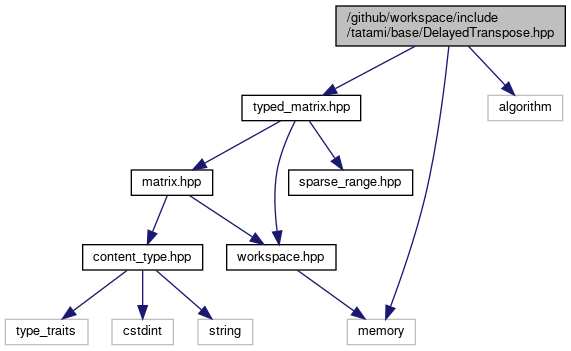
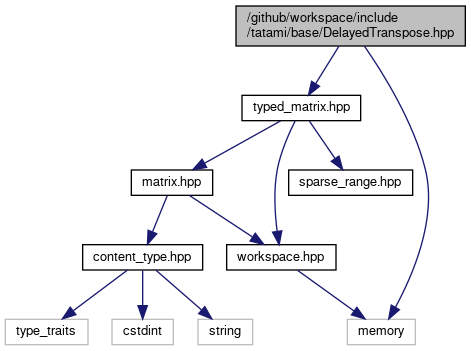
Deploying to gh-pages from @ LTLA/tatami@7d3052d615e4a1a943aadc665f6f98360302b2d3 🚀

diff --git a/docs/DelayedTranspose_8hpp_source.html b/docs/DelayedTranspose_8hpp_source.html
@@ -74,87 +74,88 @@ $(function() {
 <div class="line"><a name="l00002"></a><span class="lineno">    2</span>&#160;<span class="preprocessor">#define TATAMI_DELAYED_TRANSPOSE</span></div>
 <div class="line"><a name="l00003"></a><span class="lineno">    3</span>&#160; </div>
 <div class="line"><a name="l00004"></a><span class="lineno">    4</span>&#160;<span class="preprocessor">#include &quot;<a class="code" href="typed__matrix_8hpp.html">typed_matrix.hpp</a>&quot;</span></div>
-<div class="line"><a name="l00005"></a><span class="lineno">    5</span>&#160;<span class="preprocessor">#include &lt;algorithm&gt;</span></div>
-<div class="line"><a name="l00006"></a><span class="lineno">    6</span>&#160;<span class="preprocessor">#include &lt;memory&gt;</span></div>
-<div class="line"><a name="l00007"></a><span class="lineno">    7</span>&#160; </div>
-<div class="line"><a name="l00014"></a><span class="lineno">   14</span>&#160;<span class="keyword">namespace </span>tatami {</div>
-<div class="line"><a name="l00015"></a><span class="lineno">   15</span>&#160; </div>
-<div class="line"><a name="l00025"></a><span class="lineno">   25</span>&#160;<span class="keyword">template</span>&lt;<span class="keyword">typename</span> T, <span class="keyword">typename</span> IDX&gt;</div>
-<div class="line"><a name="l00026"></a><span class="lineno"><a class="line" href="classtatami_1_1DelayedTranspose.html">   26</a></span>&#160;<span class="keyword">class </span><a class="code" href="classtatami_1_1DelayedTranspose.html">DelayedTranspose</a> : <span class="keyword">public</span> <a class="code" href="classtatami_1_1typed__matrix.html">typed_matrix</a>&lt;T, IDX&gt; {</div>
-<div class="line"><a name="l00027"></a><span class="lineno">   27</span>&#160;<span class="keyword">public</span>:</div>
-<div class="line"><a name="l00031"></a><span class="lineno"><a class="line" href="classtatami_1_1DelayedTranspose.html#a639f0367cd1aff9ad5f3f163fb5f68ad">   31</a></span>&#160;    <a class="code" href="classtatami_1_1DelayedTranspose.html#a639f0367cd1aff9ad5f3f163fb5f68ad">DelayedTranspose</a>(std::shared_ptr&lt;<span class="keyword">const</span> <a class="code" href="classtatami_1_1typed__matrix.html">typed_matrix&lt;T, IDX&gt;</a> &gt; p) : mat(p) {}</div>
-<div class="line"><a name="l00032"></a><span class="lineno">   32</span>&#160; </div>
-<div class="line"><a name="l00033"></a><span class="lineno">   33</span>&#160;    ~<a class="code" href="classtatami_1_1DelayedTranspose.html">DelayedTranspose</a>() {}</div>
-<div class="line"><a name="l00034"></a><span class="lineno">   34</span>&#160;<span class="keyword">public</span>:</div>
-<div class="line"><a name="l00035"></a><span class="lineno"><a class="line" href="classtatami_1_1DelayedTranspose.html#a84c80075e46faf9441841e1c1cca7698">   35</a></span>&#160;    <span class="keyword">const</span> T* <a class="code" href="classtatami_1_1DelayedTranspose.html#a84c80075e46faf9441841e1c1cca7698">row</a>(<span class="keywordtype">size_t</span> r, T* buffer, <span class="keywordtype">size_t</span> start, <span class="keywordtype">size_t</span> end, <a class="code" href="classtatami_1_1workspace.html">workspace</a>* work=<span class="keyword">nullptr</span>)<span class="keyword"> const </span>{</div>
-<div class="line"><a name="l00036"></a><span class="lineno">   36</span>&#160;        <span class="keywordflow">return</span> mat-&gt;column(r, buffer, start, end, work);</div>
-<div class="line"><a name="l00037"></a><span class="lineno">   37</span>&#160;    }</div>
-<div class="line"><a name="l00038"></a><span class="lineno">   38</span>&#160; </div>
-<div class="line"><a name="l00039"></a><span class="lineno"><a class="line" href="classtatami_1_1DelayedTranspose.html#a6ff0718cb0c642781e41995d672b3f99">   39</a></span>&#160;    <span class="keyword">const</span> T* <a class="code" href="classtatami_1_1DelayedTranspose.html#a6ff0718cb0c642781e41995d672b3f99">column</a>(<span class="keywordtype">size_t</span> c, T* buffer, <span class="keywordtype">size_t</span> start, <span class="keywordtype">size_t</span> end, <a class="code" href="classtatami_1_1workspace.html">workspace</a>* work=<span class="keyword">nullptr</span>)<span class="keyword"> const </span>{</div>
-<div class="line"><a name="l00040"></a><span class="lineno">   40</span>&#160;        <span class="keywordflow">return</span> mat-&gt;row(c, buffer, start, end, work);</div>
-<div class="line"><a name="l00041"></a><span class="lineno">   41</span>&#160;    }</div>
-<div class="line"><a name="l00042"></a><span class="lineno">   42</span>&#160; </div>
-<div class="line"><a name="l00043"></a><span class="lineno">   43</span>&#160;    <span class="keyword">using</span> <a class="code" href="classtatami_1_1typed__matrix.html">typed_matrix&lt;T, IDX&gt;::column</a>;</div>
-<div class="line"><a name="l00044"></a><span class="lineno">   44</span>&#160; </div>
-<div class="line"><a name="l00045"></a><span class="lineno">   45</span>&#160;    <span class="keyword">using</span> <a class="code" href="classtatami_1_1typed__matrix.html">typed_matrix&lt;T, IDX&gt;::row</a>;</div>
-<div class="line"><a name="l00046"></a><span class="lineno">   46</span>&#160; </div>
-<div class="line"><a name="l00047"></a><span class="lineno">   47</span>&#160;<span class="keyword">public</span>:</div>
-<div class="line"><a name="l00048"></a><span class="lineno"><a class="line" href="classtatami_1_1DelayedTranspose.html#acc9425ada0dd1ca5fcfb6d5c7ef437de">   48</a></span>&#160;    <a class="code" href="structtatami_1_1sparse__range.html">sparse_range&lt;T, IDX&gt;</a> <a class="code" href="classtatami_1_1DelayedTranspose.html#acc9425ada0dd1ca5fcfb6d5c7ef437de">sparse_row</a>(<span class="keywordtype">size_t</span> r, T* out_values, IDX* out_indices, <span class="keywordtype">size_t</span> start, <span class="keywordtype">size_t</span> end, <a class="code" href="classtatami_1_1workspace.html">workspace</a>* work=<span class="keyword">nullptr</span>, <span class="keywordtype">bool</span> sorted=<span class="keyword">true</span>)<span class="keyword"> const </span>{</div>
-<div class="line"><a name="l00049"></a><span class="lineno">   49</span>&#160;        <span class="keywordflow">return</span> mat-&gt;sparse_column(r, out_values, out_indices, start, end, work, sorted);</div>
-<div class="line"><a name="l00050"></a><span class="lineno">   50</span>&#160;    }</div>
-<div class="line"><a name="l00051"></a><span class="lineno">   51</span>&#160; </div>
-<div class="line"><a name="l00052"></a><span class="lineno"><a class="line" href="classtatami_1_1DelayedTranspose.html#a779560415e211da5097e0797b8c9e1e6">   52</a></span>&#160;    <a class="code" href="structtatami_1_1sparse__range.html">sparse_range&lt;T, IDX&gt;</a> <a class="code" href="classtatami_1_1DelayedTranspose.html#a779560415e211da5097e0797b8c9e1e6">sparse_column</a>(<span class="keywordtype">size_t</span> c, T* out_values, IDX* out_indices, <span class="keywordtype">size_t</span> start, <span class="keywordtype">size_t</span> end, <a class="code" href="classtatami_1_1workspace.html">workspace</a>* work=<span class="keyword">nullptr</span>, <span class="keywordtype">bool</span> sorted=<span class="keyword">true</span>)<span class="keyword"> const </span>{</div>
-<div class="line"><a name="l00053"></a><span class="lineno">   53</span>&#160;        <span class="keywordflow">return</span> mat-&gt;sparse_row(c, out_values, out_indices, start, end, work, sorted);</div>
-<div class="line"><a name="l00054"></a><span class="lineno">   54</span>&#160;    }</div>
-<div class="line"><a name="l00055"></a><span class="lineno">   55</span>&#160; </div>
-<div class="line"><a name="l00056"></a><span class="lineno">   56</span>&#160;    <span class="keyword">using</span> <a class="code" href="classtatami_1_1typed__matrix.html">typed_matrix&lt;T, IDX&gt;::sparse_column</a>;</div>
-<div class="line"><a name="l00057"></a><span class="lineno">   57</span>&#160; </div>
-<div class="line"><a name="l00058"></a><span class="lineno">   58</span>&#160;    <span class="keyword">using</span> <a class="code" href="classtatami_1_1typed__matrix.html">typed_matrix&lt;T, IDX&gt;::sparse_row</a>;</div>
-<div class="line"><a name="l00059"></a><span class="lineno">   59</span>&#160; </div>
-<div class="line"><a name="l00060"></a><span class="lineno">   60</span>&#160;<span class="keyword">public</span>:</div>
-<div class="line"><a name="l00064"></a><span class="lineno"><a class="line" href="classtatami_1_1DelayedTranspose.html#afb9f6fb4d51c4741d1c7ae60dd068a26">   64</a></span>&#160;    <span class="keywordtype">size_t</span> <a class="code" href="classtatami_1_1DelayedTranspose.html#afb9f6fb4d51c4741d1c7ae60dd068a26">nrow</a>()<span class="keyword"> const </span>{</div>
-<div class="line"><a name="l00065"></a><span class="lineno">   65</span>&#160;        <span class="keywordflow">return</span> mat-&gt;ncol();</div>
-<div class="line"><a name="l00066"></a><span class="lineno">   66</span>&#160;    }</div>
-<div class="line"><a name="l00067"></a><span class="lineno">   67</span>&#160;    </div>
-<div class="line"><a name="l00071"></a><span class="lineno"><a class="line" href="classtatami_1_1DelayedTranspose.html#a29552de098bd2374ae99ef0e223d8973">   71</a></span>&#160;    <span class="keywordtype">size_t</span> <a class="code" href="classtatami_1_1DelayedTranspose.html#a29552de098bd2374ae99ef0e223d8973">ncol</a>()<span class="keyword"> const </span>{</div>
-<div class="line"><a name="l00072"></a><span class="lineno">   72</span>&#160;        <span class="keywordflow">return</span> mat-&gt;nrow();</div>
-<div class="line"><a name="l00073"></a><span class="lineno">   73</span>&#160;    }</div>
-<div class="line"><a name="l00074"></a><span class="lineno">   74</span>&#160; </div>
-<div class="line"><a name="l00078"></a><span class="lineno"><a class="line" href="classtatami_1_1DelayedTranspose.html#a34bd41a71cb68fb98697076a4119f33f">   78</a></span>&#160;    std::shared_ptr&lt;workspace&gt; <a class="code" href="classtatami_1_1DelayedTranspose.html#a34bd41a71cb68fb98697076a4119f33f">new_workspace</a>(<span class="keywordtype">bool</span> <a class="code" href="classtatami_1_1DelayedTranspose.html#a84c80075e46faf9441841e1c1cca7698">row</a>)<span class="keyword"> const </span>{</div>
-<div class="line"><a name="l00079"></a><span class="lineno">   79</span>&#160;        <span class="keywordflow">return</span> mat-&gt;new_workspace(!<a class="code" href="classtatami_1_1DelayedTranspose.html#a84c80075e46faf9441841e1c1cca7698">row</a>);</div>
-<div class="line"><a name="l00080"></a><span class="lineno">   80</span>&#160;    }</div>
-<div class="line"><a name="l00081"></a><span class="lineno">   81</span>&#160; </div>
-<div class="line"><a name="l00085"></a><span class="lineno"><a class="line" href="classtatami_1_1DelayedTranspose.html#ad22bbe789d72c8dcc1b2d6ff7e4881c7">   85</a></span>&#160;    <span class="keywordtype">bool</span> <a class="code" href="classtatami_1_1DelayedTranspose.html#ad22bbe789d72c8dcc1b2d6ff7e4881c7">sparse</a>()<span class="keyword"> const </span>{</div>
-<div class="line"><a name="l00086"></a><span class="lineno">   86</span>&#160;        <span class="keywordflow">return</span> mat-&gt;sparse();</div>
-<div class="line"><a name="l00087"></a><span class="lineno">   87</span>&#160;    }</div>
-<div class="line"><a name="l00088"></a><span class="lineno">   88</span>&#160; </div>
-<div class="line"><a name="l00092"></a><span class="lineno"><a class="line" href="classtatami_1_1DelayedTranspose.html#a13a4810d7d36b07df67b4d0e758d200a">   92</a></span>&#160;    <span class="keywordtype">bool</span> <a class="code" href="classtatami_1_1DelayedTranspose.html#a13a4810d7d36b07df67b4d0e758d200a">prefer_rows</a>()<span class="keyword"> const </span>{</div>
-<div class="line"><a name="l00093"></a><span class="lineno">   93</span>&#160;        <span class="keywordflow">return</span> mat-&gt;prefer_rows();</div>
-<div class="line"><a name="l00094"></a><span class="lineno">   94</span>&#160;    }</div>
-<div class="line"><a name="l00095"></a><span class="lineno">   95</span>&#160;};</div>
-<div class="line"><a name="l00096"></a><span class="lineno">   96</span>&#160; </div>
-<div class="line"><a name="l00106"></a><span class="lineno">  106</span>&#160;<span class="keyword">template</span>&lt;<span class="keywordtype">int</span> MARGIN, <span class="keyword">class</span> MAT, <span class="keyword">class</span> V&gt;</div>
-<div class="line"><a name="l00107"></a><span class="lineno"><a class="line" href="DelayedTranspose_8hpp.html#ac776ea0f9828f7f6f389aaa41c14649b">  107</a></span>&#160;std::shared_ptr&lt;MAT&gt; <a class="code" href="DelayedTranspose_8hpp.html#ac776ea0f9828f7f6f389aaa41c14649b">make_DelayedTranspose</a>(std::shared_ptr&lt;MAT&gt; p) {</div>
-<div class="line"><a name="l00108"></a><span class="lineno">  108</span>&#160;    <span class="keywordflow">return</span> std::shared_ptr&lt;MAT&gt;(</div>
-<div class="line"><a name="l00109"></a><span class="lineno">  109</span>&#160;        <span class="keyword">new</span> <a class="code" href="classtatami_1_1DelayedTranspose.html">DelayedTranspose&lt;typename MAT::value, typename MAT::index&gt;</a>(p)</div>
-<div class="line"><a name="l00110"></a><span class="lineno">  110</span>&#160;    );</div>
-<div class="line"><a name="l00111"></a><span class="lineno">  111</span>&#160;}</div>
-<div class="line"><a name="l00112"></a><span class="lineno">  112</span>&#160; </div>
-<div class="line"><a name="l00113"></a><span class="lineno">  113</span>&#160;}</div>
-<div class="line"><a name="l00114"></a><span class="lineno">  114</span>&#160; </div>
-<div class="line"><a name="l00115"></a><span class="lineno">  115</span>&#160;<span class="preprocessor">#endif</span></div>
-<div class="ttc" id="aDelayedTranspose_8hpp_html_ac776ea0f9828f7f6f389aaa41c14649b"><div class="ttname"><a href="DelayedTranspose_8hpp.html#ac776ea0f9828f7f6f389aaa41c14649b">tatami::make_DelayedTranspose</a></div><div class="ttdeci">std::shared_ptr&lt; MAT &gt; make_DelayedTranspose(std::shared_ptr&lt; MAT &gt; p)</div><div class="ttdef"><b>Definition:</b> DelayedTranspose.hpp:107</div></div>
-<div class="ttc" id="aclasstatami_1_1DelayedTranspose_html"><div class="ttname"><a href="classtatami_1_1DelayedTranspose.html">tatami::DelayedTranspose</a></div><div class="ttdoc">Delayed transposition of a matrix.</div><div class="ttdef"><b>Definition:</b> DelayedTranspose.hpp:26</div></div>
-<div class="ttc" id="aclasstatami_1_1DelayedTranspose_html_a13a4810d7d36b07df67b4d0e758d200a"><div class="ttname"><a href="classtatami_1_1DelayedTranspose.html#a13a4810d7d36b07df67b4d0e758d200a">tatami::DelayedTranspose::prefer_rows</a></div><div class="ttdeci">bool prefer_rows() const</div><div class="ttdef"><b>Definition:</b> DelayedTranspose.hpp:92</div></div>
-<div class="ttc" id="aclasstatami_1_1DelayedTranspose_html_a29552de098bd2374ae99ef0e223d8973"><div class="ttname"><a href="classtatami_1_1DelayedTranspose.html#a29552de098bd2374ae99ef0e223d8973">tatami::DelayedTranspose::ncol</a></div><div class="ttdeci">size_t ncol() const</div><div class="ttdef"><b>Definition:</b> DelayedTranspose.hpp:71</div></div>
-<div class="ttc" id="aclasstatami_1_1DelayedTranspose_html_a34bd41a71cb68fb98697076a4119f33f"><div class="ttname"><a href="classtatami_1_1DelayedTranspose.html#a34bd41a71cb68fb98697076a4119f33f">tatami::DelayedTranspose::new_workspace</a></div><div class="ttdeci">std::shared_ptr&lt; workspace &gt; new_workspace(bool row) const</div><div class="ttdef"><b>Definition:</b> DelayedTranspose.hpp:78</div></div>
-<div class="ttc" id="aclasstatami_1_1DelayedTranspose_html_a639f0367cd1aff9ad5f3f163fb5f68ad"><div class="ttname"><a href="classtatami_1_1DelayedTranspose.html#a639f0367cd1aff9ad5f3f163fb5f68ad">tatami::DelayedTranspose::DelayedTranspose</a></div><div class="ttdeci">DelayedTranspose(std::shared_ptr&lt; const typed_matrix&lt; T, IDX &gt; &gt; p)</div><div class="ttdef"><b>Definition:</b> DelayedTranspose.hpp:31</div></div>
-<div class="ttc" id="aclasstatami_1_1DelayedTranspose_html_a6ff0718cb0c642781e41995d672b3f99"><div class="ttname"><a href="classtatami_1_1DelayedTranspose.html#a6ff0718cb0c642781e41995d672b3f99">tatami::DelayedTranspose::column</a></div><div class="ttdeci">const T * column(size_t c, T *buffer, size_t start, size_t end, workspace *work=nullptr) const</div><div class="ttdef"><b>Definition:</b> DelayedTranspose.hpp:39</div></div>
-<div class="ttc" id="aclasstatami_1_1DelayedTranspose_html_a779560415e211da5097e0797b8c9e1e6"><div class="ttname"><a href="classtatami_1_1DelayedTranspose.html#a779560415e211da5097e0797b8c9e1e6">tatami::DelayedTranspose::sparse_column</a></div><div class="ttdeci">sparse_range&lt; T, IDX &gt; sparse_column(size_t c, T *out_values, IDX *out_indices, size_t start, size_t end, workspace *work=nullptr, bool sorted=true) const</div><div class="ttdef"><b>Definition:</b> DelayedTranspose.hpp:52</div></div>
-<div class="ttc" id="aclasstatami_1_1DelayedTranspose_html_a84c80075e46faf9441841e1c1cca7698"><div class="ttname"><a href="classtatami_1_1DelayedTranspose.html#a84c80075e46faf9441841e1c1cca7698">tatami::DelayedTranspose::row</a></div><div class="ttdeci">const T * row(size_t r, T *buffer, size_t start, size_t end, workspace *work=nullptr) const</div><div class="ttdef"><b>Definition:</b> DelayedTranspose.hpp:35</div></div>
-<div class="ttc" id="aclasstatami_1_1DelayedTranspose_html_acc9425ada0dd1ca5fcfb6d5c7ef437de"><div class="ttname"><a href="classtatami_1_1DelayedTranspose.html#acc9425ada0dd1ca5fcfb6d5c7ef437de">tatami::DelayedTranspose::sparse_row</a></div><div class="ttdeci">sparse_range&lt; T, IDX &gt; sparse_row(size_t r, T *out_values, IDX *out_indices, size_t start, size_t end, workspace *work=nullptr, bool sorted=true) const</div><div class="ttdef"><b>Definition:</b> DelayedTranspose.hpp:48</div></div>
-<div class="ttc" id="aclasstatami_1_1DelayedTranspose_html_ad22bbe789d72c8dcc1b2d6ff7e4881c7"><div class="ttname"><a href="classtatami_1_1DelayedTranspose.html#ad22bbe789d72c8dcc1b2d6ff7e4881c7">tatami::DelayedTranspose::sparse</a></div><div class="ttdeci">bool sparse() const</div><div class="ttdef"><b>Definition:</b> DelayedTranspose.hpp:85</div></div>
-<div class="ttc" id="aclasstatami_1_1DelayedTranspose_html_afb9f6fb4d51c4741d1c7ae60dd068a26"><div class="ttname"><a href="classtatami_1_1DelayedTranspose.html#afb9f6fb4d51c4741d1c7ae60dd068a26">tatami::DelayedTranspose::nrow</a></div><div class="ttdeci">size_t nrow() const</div><div class="ttdef"><b>Definition:</b> DelayedTranspose.hpp:64</div></div>
+<div class="line"><a name="l00005"></a><span class="lineno">    5</span>&#160;<span class="preprocessor">#include &lt;memory&gt;</span></div>
+<div class="line"><a name="l00006"></a><span class="lineno">    6</span>&#160; </div>
+<div class="line"><a name="l00013"></a><span class="lineno">   13</span>&#160;<span class="keyword">namespace </span>tatami {</div>
+<div class="line"><a name="l00014"></a><span class="lineno">   14</span>&#160; </div>
+<div class="line"><a name="l00024"></a><span class="lineno">   24</span>&#160;<span class="keyword">template</span>&lt;<span class="keyword">typename</span> T, <span class="keyword">typename</span> IDX&gt;</div>
+<div class="line"><a name="l00025"></a><span class="lineno"><a class="line" href="classtatami_1_1DelayedTranspose.html">   25</a></span>&#160;<span class="keyword">class </span><a class="code" href="classtatami_1_1DelayedTranspose.html">DelayedTranspose</a> : <span class="keyword">public</span> <a class="code" href="classtatami_1_1typed__matrix.html">typed_matrix</a>&lt;T, IDX&gt; {</div>
+<div class="line"><a name="l00026"></a><span class="lineno">   26</span>&#160;<span class="keyword">public</span>:</div>
+<div class="line"><a name="l00030"></a><span class="lineno"><a class="line" href="classtatami_1_1DelayedTranspose.html#a639f0367cd1aff9ad5f3f163fb5f68ad">   30</a></span>&#160;    <a class="code" href="classtatami_1_1DelayedTranspose.html#a639f0367cd1aff9ad5f3f163fb5f68ad">DelayedTranspose</a>(std::shared_ptr&lt;<span class="keyword">const</span> <a class="code" href="classtatami_1_1typed__matrix.html">typed_matrix&lt;T, IDX&gt;</a> &gt; p) : mat(std::move(p)) {}</div>
+<div class="line"><a name="l00031"></a><span class="lineno">   31</span>&#160; </div>
+<div class="line"><a name="l00032"></a><span class="lineno">   32</span>&#160;    ~<a class="code" href="classtatami_1_1DelayedTranspose.html">DelayedTranspose</a>() {}</div>
+<div class="line"><a name="l00033"></a><span class="lineno">   33</span>&#160;<span class="keyword">public</span>:</div>
+<div class="line"><a name="l00034"></a><span class="lineno"><a class="line" href="classtatami_1_1DelayedTranspose.html#a84c80075e46faf9441841e1c1cca7698">   34</a></span>&#160;    <span class="keyword">const</span> T* <a class="code" href="classtatami_1_1DelayedTranspose.html#a84c80075e46faf9441841e1c1cca7698">row</a>(<span class="keywordtype">size_t</span> r, T* buffer, <span class="keywordtype">size_t</span> start, <span class="keywordtype">size_t</span> end, <a class="code" href="classtatami_1_1workspace.html">workspace</a>* work=<span class="keyword">nullptr</span>)<span class="keyword"> const </span>{</div>
+<div class="line"><a name="l00035"></a><span class="lineno">   35</span>&#160;        <span class="keywordflow">return</span> mat-&gt;column(r, buffer, start, end, work);</div>
+<div class="line"><a name="l00036"></a><span class="lineno">   36</span>&#160;    }</div>
+<div class="line"><a name="l00037"></a><span class="lineno">   37</span>&#160; </div>
+<div class="line"><a name="l00038"></a><span class="lineno"><a class="line" href="classtatami_1_1DelayedTranspose.html#a6ff0718cb0c642781e41995d672b3f99">   38</a></span>&#160;    <span class="keyword">const</span> T* <a class="code" href="classtatami_1_1DelayedTranspose.html#a6ff0718cb0c642781e41995d672b3f99">column</a>(<span class="keywordtype">size_t</span> c, T* buffer, <span class="keywordtype">size_t</span> start, <span class="keywordtype">size_t</span> end, <a class="code" href="classtatami_1_1workspace.html">workspace</a>* work=<span class="keyword">nullptr</span>)<span class="keyword"> const </span>{</div>
+<div class="line"><a name="l00039"></a><span class="lineno">   39</span>&#160;        <span class="keywordflow">return</span> mat-&gt;row(c, buffer, start, end, work);</div>
+<div class="line"><a name="l00040"></a><span class="lineno">   40</span>&#160;    }</div>
+<div class="line"><a name="l00041"></a><span class="lineno">   41</span>&#160; </div>
+<div class="line"><a name="l00042"></a><span class="lineno">   42</span>&#160;    <span class="keyword">using</span> <a class="code" href="classtatami_1_1typed__matrix.html">typed_matrix&lt;T, IDX&gt;::column</a>;</div>
+<div class="line"><a name="l00043"></a><span class="lineno">   43</span>&#160; </div>
+<div class="line"><a name="l00044"></a><span class="lineno">   44</span>&#160;    <span class="keyword">using</span> <a class="code" href="classtatami_1_1typed__matrix.html">typed_matrix&lt;T, IDX&gt;::row</a>;</div>
+<div class="line"><a name="l00045"></a><span class="lineno">   45</span>&#160; </div>
+<div class="line"><a name="l00046"></a><span class="lineno">   46</span>&#160;<span class="keyword">public</span>:</div>
+<div class="line"><a name="l00047"></a><span class="lineno"><a class="line" href="classtatami_1_1DelayedTranspose.html#acc9425ada0dd1ca5fcfb6d5c7ef437de">   47</a></span>&#160;    <a class="code" href="structtatami_1_1sparse__range.html">sparse_range&lt;T, IDX&gt;</a> <a class="code" href="classtatami_1_1DelayedTranspose.html#acc9425ada0dd1ca5fcfb6d5c7ef437de">sparse_row</a>(<span class="keywordtype">size_t</span> r, T* out_values, IDX* out_indices, <span class="keywordtype">size_t</span> start, <span class="keywordtype">size_t</span> end, <a class="code" href="classtatami_1_1workspace.html">workspace</a>* work=<span class="keyword">nullptr</span>, <span class="keywordtype">bool</span> sorted=<span class="keyword">true</span>)<span class="keyword"> const </span>{</div>
+<div class="line"><a name="l00048"></a><span class="lineno">   48</span>&#160;        <span class="keywordflow">return</span> mat-&gt;sparse_column(r, out_values, out_indices, start, end, work, sorted);</div>
+<div class="line"><a name="l00049"></a><span class="lineno">   49</span>&#160;    }</div>
+<div class="line"><a name="l00050"></a><span class="lineno">   50</span>&#160; </div>
+<div class="line"><a name="l00051"></a><span class="lineno"><a class="line" href="classtatami_1_1DelayedTranspose.html#a779560415e211da5097e0797b8c9e1e6">   51</a></span>&#160;    <a class="code" href="structtatami_1_1sparse__range.html">sparse_range&lt;T, IDX&gt;</a> <a class="code" href="classtatami_1_1DelayedTranspose.html#a779560415e211da5097e0797b8c9e1e6">sparse_column</a>(<span class="keywordtype">size_t</span> c, T* out_values, IDX* out_indices, <span class="keywordtype">size_t</span> start, <span class="keywordtype">size_t</span> end, <a class="code" href="classtatami_1_1workspace.html">workspace</a>* work=<span class="keyword">nullptr</span>, <span class="keywordtype">bool</span> sorted=<span class="keyword">true</span>)<span class="keyword"> const </span>{</div>
+<div class="line"><a name="l00052"></a><span class="lineno">   52</span>&#160;        <span class="keywordflow">return</span> mat-&gt;sparse_row(c, out_values, out_indices, start, end, work, sorted);</div>
+<div class="line"><a name="l00053"></a><span class="lineno">   53</span>&#160;    }</div>
+<div class="line"><a name="l00054"></a><span class="lineno">   54</span>&#160; </div>
+<div class="line"><a name="l00055"></a><span class="lineno">   55</span>&#160;    <span class="keyword">using</span> <a class="code" href="classtatami_1_1typed__matrix.html">typed_matrix&lt;T, IDX&gt;::sparse_column</a>;</div>
+<div class="line"><a name="l00056"></a><span class="lineno">   56</span>&#160; </div>
+<div class="line"><a name="l00057"></a><span class="lineno">   57</span>&#160;    <span class="keyword">using</span> <a class="code" href="classtatami_1_1typed__matrix.html">typed_matrix&lt;T, IDX&gt;::sparse_row</a>;</div>
+<div class="line"><a name="l00058"></a><span class="lineno">   58</span>&#160; </div>
+<div class="line"><a name="l00059"></a><span class="lineno">   59</span>&#160;<span class="keyword">public</span>:</div>
+<div class="line"><a name="l00063"></a><span class="lineno"><a class="line" href="classtatami_1_1DelayedTranspose.html#afb9f6fb4d51c4741d1c7ae60dd068a26">   63</a></span>&#160;    <span class="keywordtype">size_t</span> <a class="code" href="classtatami_1_1DelayedTranspose.html#afb9f6fb4d51c4741d1c7ae60dd068a26">nrow</a>()<span class="keyword"> const </span>{</div>
+<div class="line"><a name="l00064"></a><span class="lineno">   64</span>&#160;        <span class="keywordflow">return</span> mat-&gt;ncol();</div>
+<div class="line"><a name="l00065"></a><span class="lineno">   65</span>&#160;    }</div>
+<div class="line"><a name="l00066"></a><span class="lineno">   66</span>&#160;    </div>
+<div class="line"><a name="l00070"></a><span class="lineno"><a class="line" href="classtatami_1_1DelayedTranspose.html#a29552de098bd2374ae99ef0e223d8973">   70</a></span>&#160;    <span class="keywordtype">size_t</span> <a class="code" href="classtatami_1_1DelayedTranspose.html#a29552de098bd2374ae99ef0e223d8973">ncol</a>()<span class="keyword"> const </span>{</div>
+<div class="line"><a name="l00071"></a><span class="lineno">   71</span>&#160;        <span class="keywordflow">return</span> mat-&gt;nrow();</div>
+<div class="line"><a name="l00072"></a><span class="lineno">   72</span>&#160;    }</div>
+<div class="line"><a name="l00073"></a><span class="lineno">   73</span>&#160; </div>
+<div class="line"><a name="l00077"></a><span class="lineno"><a class="line" href="classtatami_1_1DelayedTranspose.html#a34bd41a71cb68fb98697076a4119f33f">   77</a></span>&#160;    std::shared_ptr&lt;workspace&gt; <a class="code" href="classtatami_1_1DelayedTranspose.html#a34bd41a71cb68fb98697076a4119f33f">new_workspace</a>(<span class="keywordtype">bool</span> <a class="code" href="classtatami_1_1DelayedTranspose.html#a84c80075e46faf9441841e1c1cca7698">row</a>)<span class="keyword"> const </span>{</div>
+<div class="line"><a name="l00078"></a><span class="lineno">   78</span>&#160;        <span class="keywordflow">return</span> mat-&gt;new_workspace(!<a class="code" href="classtatami_1_1DelayedTranspose.html#a84c80075e46faf9441841e1c1cca7698">row</a>);</div>
+<div class="line"><a name="l00079"></a><span class="lineno">   79</span>&#160;    }</div>
+<div class="line"><a name="l00080"></a><span class="lineno">   80</span>&#160; </div>
+<div class="line"><a name="l00084"></a><span class="lineno"><a class="line" href="classtatami_1_1DelayedTranspose.html#ad22bbe789d72c8dcc1b2d6ff7e4881c7">   84</a></span>&#160;    <span class="keywordtype">bool</span> <a class="code" href="classtatami_1_1DelayedTranspose.html#ad22bbe789d72c8dcc1b2d6ff7e4881c7">sparse</a>()<span class="keyword"> const </span>{</div>
+<div class="line"><a name="l00085"></a><span class="lineno">   85</span>&#160;        <span class="keywordflow">return</span> mat-&gt;sparse();</div>
+<div class="line"><a name="l00086"></a><span class="lineno">   86</span>&#160;    }</div>
+<div class="line"><a name="l00087"></a><span class="lineno">   87</span>&#160; </div>
+<div class="line"><a name="l00091"></a><span class="lineno"><a class="line" href="classtatami_1_1DelayedTranspose.html#a13a4810d7d36b07df67b4d0e758d200a">   91</a></span>&#160;    <span class="keywordtype">bool</span> <a class="code" href="classtatami_1_1DelayedTranspose.html#a13a4810d7d36b07df67b4d0e758d200a">prefer_rows</a>()<span class="keyword"> const </span>{</div>
+<div class="line"><a name="l00092"></a><span class="lineno">   92</span>&#160;        <span class="keywordflow">return</span> !mat-&gt;prefer_rows();</div>
+<div class="line"><a name="l00093"></a><span class="lineno">   93</span>&#160;    }</div>
+<div class="line"><a name="l00094"></a><span class="lineno">   94</span>&#160;<span class="keyword">private</span>:</div>
+<div class="line"><a name="l00095"></a><span class="lineno">   95</span>&#160;    std::shared_ptr&lt;const typed_matrix&lt;T, IDX&gt; &gt; mat;</div>
+<div class="line"><a name="l00096"></a><span class="lineno">   96</span>&#160;};</div>
+<div class="line"><a name="l00097"></a><span class="lineno">   97</span>&#160; </div>
+<div class="line"><a name="l00107"></a><span class="lineno">  107</span>&#160;<span class="keyword">template</span>&lt;<span class="keyword">class</span> MAT&gt;</div>
+<div class="line"><a name="l00108"></a><span class="lineno"><a class="line" href="DelayedTranspose_8hpp.html#a22624c4d027f123a484db188bd2af996">  108</a></span>&#160;std::shared_ptr&lt;MAT&gt; <a class="code" href="DelayedTranspose_8hpp.html#a22624c4d027f123a484db188bd2af996">make_DelayedTranspose</a>(std::shared_ptr&lt;MAT&gt; p) {</div>
+<div class="line"><a name="l00109"></a><span class="lineno">  109</span>&#160;    <span class="keywordflow">return</span> std::shared_ptr&lt;MAT&gt;(</div>
+<div class="line"><a name="l00110"></a><span class="lineno">  110</span>&#160;        <span class="keyword">new</span> <a class="code" href="classtatami_1_1DelayedTranspose.html">DelayedTranspose&lt;typename MAT::value, typename MAT::index&gt;</a>(std::move(p))</div>
+<div class="line"><a name="l00111"></a><span class="lineno">  111</span>&#160;    );</div>
+<div class="line"><a name="l00112"></a><span class="lineno">  112</span>&#160;}</div>
+<div class="line"><a name="l00113"></a><span class="lineno">  113</span>&#160; </div>
+<div class="line"><a name="l00114"></a><span class="lineno">  114</span>&#160;}</div>
+<div class="line"><a name="l00115"></a><span class="lineno">  115</span>&#160; </div>
+<div class="line"><a name="l00116"></a><span class="lineno">  116</span>&#160;<span class="preprocessor">#endif</span></div>
+<div class="ttc" id="aDelayedTranspose_8hpp_html_a22624c4d027f123a484db188bd2af996"><div class="ttname"><a href="DelayedTranspose_8hpp.html#a22624c4d027f123a484db188bd2af996">tatami::make_DelayedTranspose</a></div><div class="ttdeci">std::shared_ptr&lt; MAT &gt; make_DelayedTranspose(std::shared_ptr&lt; MAT &gt; p)</div><div class="ttdef"><b>Definition:</b> DelayedTranspose.hpp:108</div></div>
+<div class="ttc" id="aclasstatami_1_1DelayedTranspose_html"><div class="ttname"><a href="classtatami_1_1DelayedTranspose.html">tatami::DelayedTranspose</a></div><div class="ttdoc">Delayed transposition of a matrix.</div><div class="ttdef"><b>Definition:</b> DelayedTranspose.hpp:25</div></div>
+<div class="ttc" id="aclasstatami_1_1DelayedTranspose_html_a13a4810d7d36b07df67b4d0e758d200a"><div class="ttname"><a href="classtatami_1_1DelayedTranspose.html#a13a4810d7d36b07df67b4d0e758d200a">tatami::DelayedTranspose::prefer_rows</a></div><div class="ttdeci">bool prefer_rows() const</div><div class="ttdef"><b>Definition:</b> DelayedTranspose.hpp:91</div></div>
+<div class="ttc" id="aclasstatami_1_1DelayedTranspose_html_a29552de098bd2374ae99ef0e223d8973"><div class="ttname"><a href="classtatami_1_1DelayedTranspose.html#a29552de098bd2374ae99ef0e223d8973">tatami::DelayedTranspose::ncol</a></div><div class="ttdeci">size_t ncol() const</div><div class="ttdef"><b>Definition:</b> DelayedTranspose.hpp:70</div></div>
+<div class="ttc" id="aclasstatami_1_1DelayedTranspose_html_a34bd41a71cb68fb98697076a4119f33f"><div class="ttname"><a href="classtatami_1_1DelayedTranspose.html#a34bd41a71cb68fb98697076a4119f33f">tatami::DelayedTranspose::new_workspace</a></div><div class="ttdeci">std::shared_ptr&lt; workspace &gt; new_workspace(bool row) const</div><div class="ttdef"><b>Definition:</b> DelayedTranspose.hpp:77</div></div>
+<div class="ttc" id="aclasstatami_1_1DelayedTranspose_html_a639f0367cd1aff9ad5f3f163fb5f68ad"><div class="ttname"><a href="classtatami_1_1DelayedTranspose.html#a639f0367cd1aff9ad5f3f163fb5f68ad">tatami::DelayedTranspose::DelayedTranspose</a></div><div class="ttdeci">DelayedTranspose(std::shared_ptr&lt; const typed_matrix&lt; T, IDX &gt; &gt; p)</div><div class="ttdef"><b>Definition:</b> DelayedTranspose.hpp:30</div></div>
+<div class="ttc" id="aclasstatami_1_1DelayedTranspose_html_a6ff0718cb0c642781e41995d672b3f99"><div class="ttname"><a href="classtatami_1_1DelayedTranspose.html#a6ff0718cb0c642781e41995d672b3f99">tatami::DelayedTranspose::column</a></div><div class="ttdeci">const T * column(size_t c, T *buffer, size_t start, size_t end, workspace *work=nullptr) const</div><div class="ttdef"><b>Definition:</b> DelayedTranspose.hpp:38</div></div>
+<div class="ttc" id="aclasstatami_1_1DelayedTranspose_html_a779560415e211da5097e0797b8c9e1e6"><div class="ttname"><a href="classtatami_1_1DelayedTranspose.html#a779560415e211da5097e0797b8c9e1e6">tatami::DelayedTranspose::sparse_column</a></div><div class="ttdeci">sparse_range&lt; T, IDX &gt; sparse_column(size_t c, T *out_values, IDX *out_indices, size_t start, size_t end, workspace *work=nullptr, bool sorted=true) const</div><div class="ttdef"><b>Definition:</b> DelayedTranspose.hpp:51</div></div>
+<div class="ttc" id="aclasstatami_1_1DelayedTranspose_html_a84c80075e46faf9441841e1c1cca7698"><div class="ttname"><a href="classtatami_1_1DelayedTranspose.html#a84c80075e46faf9441841e1c1cca7698">tatami::DelayedTranspose::row</a></div><div class="ttdeci">const T * row(size_t r, T *buffer, size_t start, size_t end, workspace *work=nullptr) const</div><div class="ttdef"><b>Definition:</b> DelayedTranspose.hpp:34</div></div>
+<div class="ttc" id="aclasstatami_1_1DelayedTranspose_html_acc9425ada0dd1ca5fcfb6d5c7ef437de"><div class="ttname"><a href="classtatami_1_1DelayedTranspose.html#acc9425ada0dd1ca5fcfb6d5c7ef437de">tatami::DelayedTranspose::sparse_row</a></div><div class="ttdeci">sparse_range&lt; T, IDX &gt; sparse_row(size_t r, T *out_values, IDX *out_indices, size_t start, size_t end, workspace *work=nullptr, bool sorted=true) const</div><div class="ttdef"><b>Definition:</b> DelayedTranspose.hpp:47</div></div>
+<div class="ttc" id="aclasstatami_1_1DelayedTranspose_html_ad22bbe789d72c8dcc1b2d6ff7e4881c7"><div class="ttname"><a href="classtatami_1_1DelayedTranspose.html#ad22bbe789d72c8dcc1b2d6ff7e4881c7">tatami::DelayedTranspose::sparse</a></div><div class="ttdeci">bool sparse() const</div><div class="ttdef"><b>Definition:</b> DelayedTranspose.hpp:84</div></div>
+<div class="ttc" id="aclasstatami_1_1DelayedTranspose_html_afb9f6fb4d51c4741d1c7ae60dd068a26"><div class="ttname"><a href="classtatami_1_1DelayedTranspose.html#afb9f6fb4d51c4741d1c7ae60dd068a26">tatami::DelayedTranspose::nrow</a></div><div class="ttdeci">size_t nrow() const</div><div class="ttdef"><b>Definition:</b> DelayedTranspose.hpp:63</div></div>
 <div class="ttc" id="aclasstatami_1_1typed__matrix_html"><div class="ttname"><a href="classtatami_1_1typed__matrix.html">tatami::typed_matrix</a></div><div class="ttdoc">Virtual class for a matrix with a defined type.</div><div class="ttdef"><b>Definition:</b> typed_matrix.hpp:23</div></div>
 <div class="ttc" id="aclasstatami_1_1workspace_html"><div class="ttname"><a href="classtatami_1_1workspace.html">tatami::workspace</a></div><div class="ttdoc">Virtual workspace class.</div><div class="ttdef"><b>Definition:</b> workspace.hpp:19</div></div>
 <div class="ttc" id="astructtatami_1_1sparse__range_html"><div class="ttname"><a href="structtatami_1_1sparse__range.html">tatami::sparse_range</a></div><div class="ttdoc">A range of sparse values.</div><div class="ttdef"><b>Definition:</b> sparse_range.hpp:23</div></div>

diff --git a/docs/DelayedTranspose_8hpp.html b/docs/DelayedTranspose_8hpp.html
@@ -74,17 +74,15 @@ $(function() {
 </div><!--header-->
 <div class="contents">
 <div class="textblock"><code>#include &quot;<a class="el" href="typed__matrix_8hpp_source.html">typed_matrix.hpp</a>&quot;</code><br />
-<code>#include &lt;algorithm&gt;</code><br />
 <code>#include &lt;memory&gt;</code><br />
 </div><div class="textblock"><div class="dynheader">
 Include dependency graph for DelayedTranspose.hpp:</div>
 <div class="dyncontent">
 <div class="center"><img src="DelayedTranspose_8hpp__incl.png" border="0" usemap="#a_2github_2workspace_2include_2tatami_2base_2DelayedTranspose_8hpp" alt=""/></div>
 <map name="a_2github_2workspace_2include_2tatami_2base_2DelayedTranspose_8hpp" id="a_2github_2workspace_2include_2tatami_2base_2DelayedTranspose_8hpp">
-<area shape="rect" title=" " alt="" coords="336,5,565,47"/>
+<area shape="rect" title=" " alt="" coords="236,5,465,47"/>
 <area shape="rect" href="typed__matrix_8hpp.html" title=" " alt="" coords="242,95,361,121"/>
 <area shape="rect" title=" " alt="" coords="347,319,415,345"/>
-<area shape="rect" title=" " alt="" coords="488,95,563,121"/>
 <area shape="rect" href="matrix_8hpp.html" title=" " alt="" coords="131,169,213,196"/>
 <area shape="rect" href="workspace_8hpp.html" title=" " alt="" coords="227,244,336,271"/>
 <area shape="rect" href="sparse__range_8hpp_source.html" title=" " alt="" coords="289,169,413,196"/>
@@ -105,20 +103,20 @@ Classes</h2></td></tr>
 </table><table class="memberdecls">
 <tr class="heading"><td colspan="2"><h2 class="groupheader"><a name="func-members"></a>
 Functions</h2></td></tr>
-<tr class="memitem:ac776ea0f9828f7f6f389aaa41c14649b"><td class="memTemplParams" colspan="2">template&lt;int MARGIN, class MAT , class V &gt; </td></tr>
-<tr class="memitem:ac776ea0f9828f7f6f389aaa41c14649b"><td class="memTemplItemLeft" align="right" valign="top">std::shared_ptr&lt; MAT &gt;&#160;</td><td class="memTemplItemRight" valign="bottom"><a class="el" href="DelayedTranspose_8hpp.html#ac776ea0f9828f7f6f389aaa41c14649b">tatami::make_DelayedTranspose</a> (std::shared_ptr&lt; MAT &gt; p)</td></tr>
-<tr class="separator:ac776ea0f9828f7f6f389aaa41c14649b"><td class="memSeparator" colspan="2">&#160;</td></tr>
+<tr class="memitem:a22624c4d027f123a484db188bd2af996"><td class="memTemplParams" colspan="2">template&lt;class MAT &gt; </td></tr>
+<tr class="memitem:a22624c4d027f123a484db188bd2af996"><td class="memTemplItemLeft" align="right" valign="top">std::shared_ptr&lt; MAT &gt;&#160;</td><td class="memTemplItemRight" valign="bottom"><a class="el" href="DelayedTranspose_8hpp.html#a22624c4d027f123a484db188bd2af996">tatami::make_DelayedTranspose</a> (std::shared_ptr&lt; MAT &gt; p)</td></tr>
+<tr class="separator:a22624c4d027f123a484db188bd2af996"><td class="memSeparator" colspan="2">&#160;</td></tr>
 </table>
 <a name="details" id="details"></a><h2 class="groupheader">Detailed Description</h2>
 <div class="textblock"><p>Delayed transpose, equivalent to the <code>DelayedAperm</code> class in the <b>DelayedArray</b> package. </p>
 </div><h2 class="groupheader">Function Documentation</h2>
-<a id="ac776ea0f9828f7f6f389aaa41c14649b"></a>
-<h2 class="memtitle"><span class="permalink"><a href="#ac776ea0f9828f7f6f389aaa41c14649b">&#9670;&nbsp;</a></span>make_DelayedTranspose()</h2>
+<a id="a22624c4d027f123a484db188bd2af996"></a>
+<h2 class="memtitle"><span class="permalink"><a href="#a22624c4d027f123a484db188bd2af996">&#9670;&nbsp;</a></span>make_DelayedTranspose()</h2>
 
 <div class="memitem">
 <div class="memproto">
 <div class="memtemplate">
-template&lt;int MARGIN, class MAT , class V &gt; </div>
+template&lt;class MAT &gt; </div>
       <table class="memname">
         <tr>
           <td class="memname">std::shared_ptr&lt;MAT&gt; tatami::make_DelayedTranspose </td>

diff --git a/docs/search/all_4.js b/docs/search/all_4.js
@@ -7,7 +7,7 @@ var searchData=
   ['make_5fdelayedsubset_52',['make_DelayedSubset',['../DelayedSubset_8hpp.html#a4473d783d29c4cf969b4294922b3b081',1,'tatami']]],
   ['make_5fdelayedsubsetblock_53',['make_DelayedSubsetBlock',['../DelayedSubsetBlock_8hpp.html#ac57f538400a283e093b91b415a18ecda',1,'tatami']]],
   ['make_5fdelayedsubtractvectorhelper_54',['make_DelayedSubtractVectorHelper',['../arith__vector__helpers_8hpp.html#a9c7f75368ccdeef11137081b2d698fcf',1,'tatami']]],
-  ['make_5fdelayedtranspose_55',['make_DelayedTranspose',['../DelayedTranspose_8hpp.html#ac776ea0f9828f7f6f389aaa41c14649b',1,'tatami']]],
+  ['make_5fdelayedtranspose_55',['make_DelayedTranspose',['../DelayedTranspose_8hpp.html#a22624c4d027f123a484db188bd2af996',1,'tatami']]],
   ['math_5fhelpers_2ehpp_56',['math_helpers.hpp',['../math__helpers_8hpp.html',1,'']]],
   ['matrix_57',['matrix',['../classtatami_1_1matrix.html',1,'tatami']]],
   ['matrix_2ehpp_58',['matrix.hpp',['../matrix_8hpp.html',1,'']]],

diff --git a/docs/search/functions_2.js b/docs/search/functions_2.js
@@ -7,5 +7,5 @@ var searchData=
   ['make_5fdelayedsubset_159',['make_DelayedSubset',['../DelayedSubset_8hpp.html#a4473d783d29c4cf969b4294922b3b081',1,'tatami']]],
   ['make_5fdelayedsubsetblock_160',['make_DelayedSubsetBlock',['../DelayedSubsetBlock_8hpp.html#ac57f538400a283e093b91b415a18ecda',1,'tatami']]],
   ['make_5fdelayedsubtractvectorhelper_161',['make_DelayedSubtractVectorHelper',['../arith__vector__helpers_8hpp.html#a9c7f75368ccdeef11137081b2d698fcf',1,'tatami']]],
-  ['make_5fdelayedtranspose_162',['make_DelayedTranspose',['../DelayedTranspose_8hpp.html#ac776ea0f9828f7f6f389aaa41c14649b',1,'tatami']]]
+  ['make_5fdelayedtranspose_162',['make_DelayedTranspose',['../DelayedTranspose_8hpp.html#a22624c4d027f123a484db188bd2af996',1,'tatami']]]
 ];
